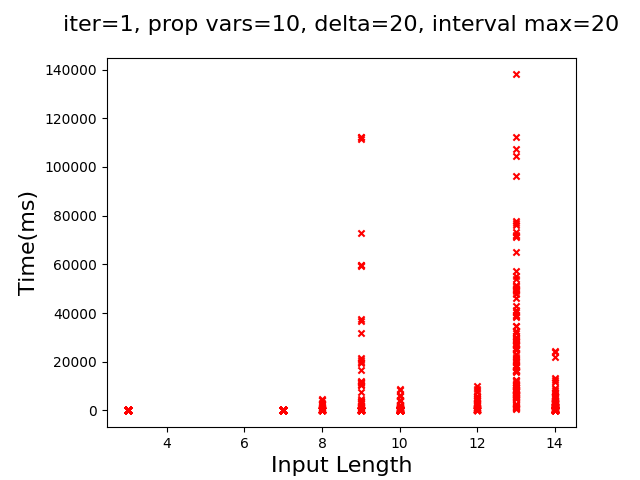
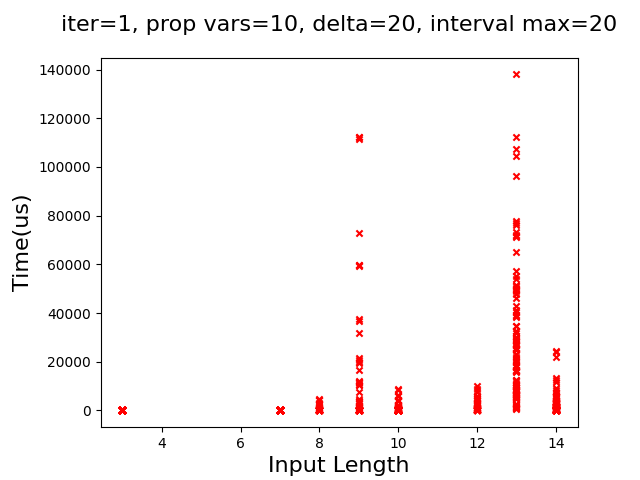
updated graph units from ms to us, changes to abstract.txt

diff --git a/paper/Paper.tex b/paper/Paper.tex
@@ -747,7 +747,7 @@ If in the worst case no simplification occurs in any call of \texttt{set\_inters
 \subsection{Experimental Benchmarking}
 We accompany theoretical space and time complexity with experimental evaluation of these complexities using randomly-generated MLTL formulas.
 We ran these experiments on an Intel(R) Core(TM) i7-4770S CPU at 3.10GHz with 32gb RAM.
-For each simulation, we generated 1000 MLTL formulas using the parameters \texttt{delta}, \texttt{interval\_max}, number of propositional variables, and number of iterations. \texttt{delta} is the maximum length we allow for any interval. \texttt{interval\_max} is the largest allowed upper bound for any interval. Number of iterations refers to the level of nesting in the generated formulas. For example, $\mathcal{G}_{[0,2]}p_0$ is a formula generated with one iteration, while $\mathcal{G}_{[0,2]}(p_0 \land p_1)$ is a formula generated with two iterations. We measure the number of characters in the output and the amount of time in milliseconds taken to run the program. Note that these simulations run the \texttt{reg} function with the subformula boolean set to false and the simplify boolean set to true.\\
+For each simulation, we generated 1000 MLTL formulas using the parameters \texttt{delta}, \texttt{interval\_max}, number of propositional variables, and number of iterations. \texttt{delta} is the maximum length we allow for any interval. \texttt{interval\_max} is the largest allowed upper bound for any interval. Number of iterations refers to the level of nesting in the generated formulas. For example, $\mathcal{G}_{[0,2]}p_0$ is a formula generated with one iteration, while $\mathcal{G}_{[0,2]}(p_0 \land p_1)$ is a formula generated with two iterations. We measure the number of characters in the output and the amount of time in microseconds taken to run the program. Note that these simulations run the \texttt{reg} function with the subformula boolean set to false and the simplify boolean set to true.\\
 \noindent\textbf{Simulation 1}
 For the first simulation, we consider 2 iterations, 5 propositional variables, 10 for \texttt{delta}, and 10 for \texttt{interval\_max}. We obtain plots \ref{InVsOutputLen} and \ref{InLenVsRunTime}:\\
 \begin{minipage}{0.5 \textwidth}

diff --git a/MLTL_reg/MLTL/complexity_graph/complexity_graph.py b/MLTL_reg/MLTL/complexity_graph/complexity_graph.py
@@ -12,17 +12,17 @@ x_font = 16
 y_font = 16
 title_font = 16
 
-data = pd.read_csv("./complexities"+str(experiment)+".txt", sep=" ", header=None, names=["Input Length", "Time(ms)", "Output Length"])
+data = pd.read_csv("./complexities"+str(experiment)+".txt", sep=" ", header=None, names=["Input Length", "Time(us)", "Output Length"])
 # print(data)
-#print(data.nlargest(2, "Time(ms)"))
+#print(data.nlargest(2, "Time(us)"))
 #print(data.nlargest(3, "Output Length"))
 
 if plot_length:
     data.plot.scatter(x="Input Length", y="Output Length", color="Blue", marker="x")
     plt.ylabel("Output Length", fontsize = y_font)
 else: # plot time
-    data.plot.scatter(x="Input Length", y="Time(ms)", color="Red", marker="x")
-    plt.ylabel("Time(ms)", fontsize=y_font)
+    data.plot.scatter(x="Input Length", y="Time(us)", color="Red", marker="x")
+    plt.ylabel("Time(us)", fontsize=y_font)
 
 plt.xlabel('Input Length', fontsize=x_font)
 
